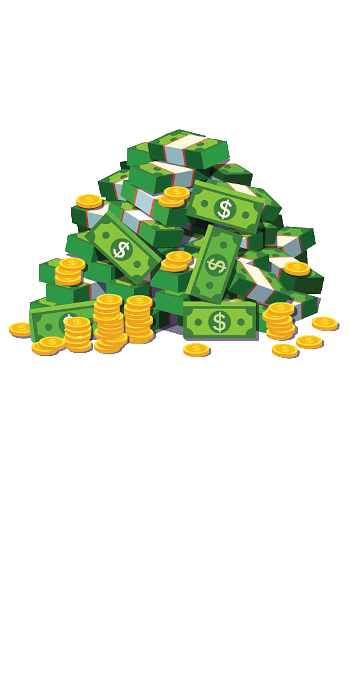
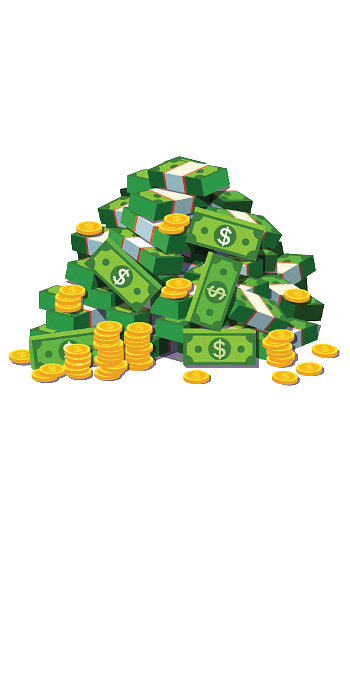
Club Card - 2 New Discard Cards

Changed region(s): [[0.0286, 0.18, 0.9714, 0.57]]

diff --git a/BondageClub/Screens/MiniGame/ClubCard/ClubCard.js b/BondageClub/Screens/MiniGame/ClubCard/ClubCard.js
@@ -981,8 +981,33 @@ var ClubCardList = [
 		OnPlay: function(CCPlayer) {
 			ClubCardPlayerDrawCard(CCPlayer, 4);
 		}
+	},
+	{
+		ID: 30018,
+		Name: "Prank",
+		Type: "Event",
+		RequiredLevel: 2,
+		OnPlay: function(CCPlayer) {
+			ClubCardPlayerDiscardCard(ClubCardGetOpponent(CCPlayer), 2);
+		},
+		CanPlay: function(CCPlayer) {
+			let Opponent = ClubCardGetOpponent(CCPlayer);
+			return ((Opponent.Hand != null) && (Opponent.Hand.length > 0));
+		}
+	},
+	{
+		ID: 30019,
+		Name: "Sabotage",
+		Type: "Event",
+		RequiredLevel: 4,
+		OnPlay: function(CCPlayer) {
+			ClubCardPlayerDiscardCard(ClubCardGetOpponent(CCPlayer), 3);
+		},
+		CanPlay: function(CCPlayer) {
+			let Opponent = ClubCardGetOpponent(CCPlayer);
+			return ((Opponent.Hand != null) && (Opponent.Hand.length > 0));
+		}
 	}
-
 
 ];
 
@@ -1235,6 +1260,21 @@ function ClubCardPlayerDrawCard(CCPlayer, Amount = null) {
 			CCPlayer.Hand.push(CCPlayer.Deck[0]);
 			CCPlayer.Deck.splice(0, 1);
 		}
+		Amount--;
+	}
+}
+
+/**
+ * Removes cards from a player hand
+ * @param {ClubCardPlayer} CCPlayer - The club card player that discards
+ * @param {number} Amount - The amount of cards to discard
+ * @returns {void} - Nothing
+ */
+function ClubCardPlayerDiscardCard(CCPlayer, Amount) {
+	if ((CCPlayer == null) || (CCPlayer.Hand == null) || (Amount == null)) return;
+	while ((Amount > 0) && (CCPlayer.Hand.length > 0)) {
+		let Pos = Math.floor(Math.random() * CCPlayer.Hand.length);
+		CCPlayer.Hand.splice(Pos, 1);
 		Amount--;
 	}
 }
